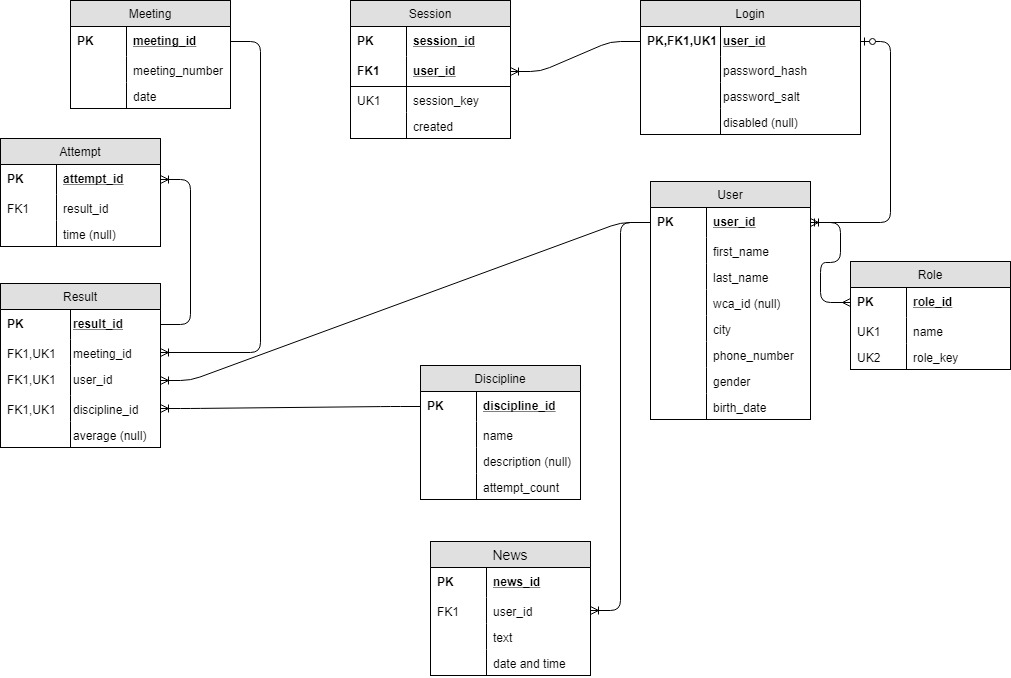
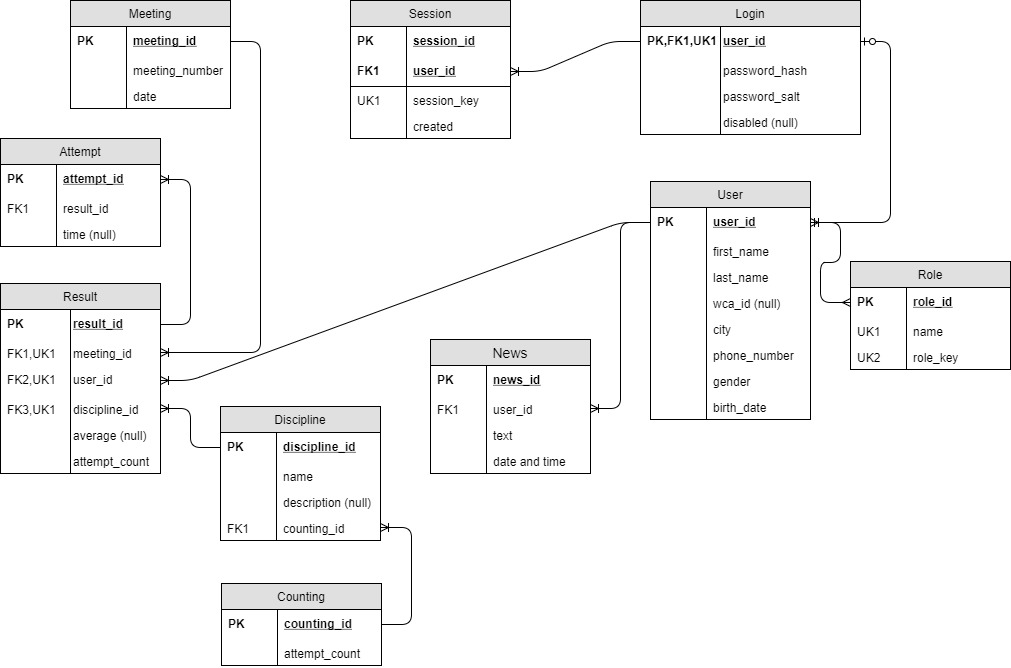
Add result (not completed)

diff --git a/Test/Backend/Managers/ResultsManager.cs b/Test/Backend/Managers/ResultsManager.cs
@@ -1,0 +1,57 @@
+using System.Collections.Generic;
+using System.Linq;
+using Backend;
+using Backend.Data.Entities;
+using Backend.Domain;
+using Microsoft.Extensions.DependencyInjection;
+using Xunit;
+
+namespace TestProject.Managers
+{
+    public class ResultsManager
+    {
+        private readonly DisciplinesManager _disciplinesManager;
+        private readonly MeetingsManager _meetingsManager;
+        private readonly Backend.Domain.ResultsManager _resultsManager;
+        private readonly UsersManager _usersManager;
+        
+        public ResultsManager()
+        {
+            var services = new ServiceCollection();
+            Startup.ConfigDataServices(services);
+
+            var serviceProvider = services.BuildServiceProvider();
+
+            _disciplinesManager = serviceProvider.GetService<DisciplinesManager>();
+            _meetingsManager = serviceProvider.GetService<MeetingsManager>();
+            _resultsManager = serviceProvider.GetService<Backend.Domain.ResultsManager>();
+            _usersManager = serviceProvider.GetService<UsersManager>();
+        }
+        
+        [Fact]
+        public void AddResult()
+        {
+            var meeting1 = _meetingsManager.GetMeeting(1);
+            Assert.NotNull(meeting1);
+
+            var discipline = _disciplinesManager.GetDisciplinesAsync().Single(d => d.Name == "3x3");
+
+            var maxim = _usersManager.GetUsers().Single(u => u.FirstName == "Максим" && u.LastName == "Жемеренко");
+
+            var result = new Result
+            {
+                Attempts = Attempts(5, 7, 10, 11, 13),
+                Discipline = discipline,
+                Meeting = meeting1,
+                User = maxim
+            };
+
+            _resultsManager.AddResult(result);
+        }
+
+        private IEnumerable<decimal?> Attempts(params decimal?[] attempts)
+        {
+            return attempts.ToArray();
+        }
+    }
+}

diff --git a/Backend/Data/Repositories/UserRepository.cs b/Backend/Data/Repositories/UserRepository.cs
@@ -1,4 +1,5 @@
 using System;
+using System.Collections.Generic;
 using Backend.Data.Database;
 using Backend.Data.Entities;
 using MySql.Data.MySqlClient;
@@ -11,12 +12,28 @@ namespace Backend.Data.Repositories
         public UserRepository(DatabaseContext databaseContext) : base(databaseContext)
         {
         }
+        
+        public IEnumerable<User> GetUsers()
+        {
+            using (var command = new MySqlCommand("select * from user", Connection, Transaction))
+            using (var reader = command.ExecuteReader())
+            {
+                var users = new List<User>();
 
+                while (reader.Read())
+                {
+                    users.Add(GetUser(reader));
+                }
+
+                return users;
+            }
+        }
+        
         public static User GetUser(MySqlDataReader reader)
         {
             return new User
             {
-                Id = reader.GetInt32("result_id"),
+                Id = reader.GetInt32("user_id"),
                 FirstName = reader.GetString("first_name"),
                 LastName = reader.GetString("last_name"),
                 City = !reader.IsDBNull(reader.GetOrdinal("city")) ? reader.GetString("city") : null,

diff --git a/Backend/Startup.cs b/Backend/Startup.cs
@@ -38,15 +38,22 @@ namespace Backend
                 c.SwaggerDoc("v1", new Info {Title = "KhSM API", Version = "v1"});
             });
 
+            ConfigDataServices(services);
+        }
+
+        public static void ConfigDataServices(IServiceCollection services)
+        {
             services.AddScoped<DatabaseContext>();
             
             services.AddScoped<MeetingsRepository>();
             services.AddScoped<DisciplinesRepository>();
             services.AddScoped<ResultsRepository>();
+            services.AddTransient<UserRepository>();
 
             services.AddScoped<MeetingsManager>();
             services.AddScoped<DisciplinesManager>();
             services.AddScoped<ResultsManager>();
+            services.AddScoped<UsersManager>();
         }
 
         // This method gets called by the runtime. Use this method to configure the HTTP request pipeline.

diff --git a/Backend/Domain/UsersManager.cs b/Backend/Domain/UsersManager.cs
@@ -1,0 +1,22 @@
+using System.Collections.Generic;
+using Backend.Data.Entities;
+using Backend.Data.Repositories;
+
+namespace Backend.Domain
+{
+    // ReSharper disable once ClassNeverInstantiated.Global
+    public class UsersManager
+    {
+        private readonly UserRepository _userRepository;
+
+        public UsersManager(UserRepository userRepository)
+        {
+            _userRepository = userRepository;
+        }
+
+        public IEnumerable<User> GetUsers()
+        {
+            return _userRepository.GetUsers();
+        }
+    }
+}

diff --git a/Backend/Data/Repositories/DisiplinesRepository.cs b/Backend/Data/Repositories/DisiplinesRepository.cs
@@ -27,8 +27,7 @@ namespace Backend.Data.Repositories
             {
                 Id = reader.GetInt32("discipline_id"),
                 Name = reader.GetString("name"),
-                Description = reader.GetString("description"),
-                AttemptsCount = reader.GetInt32("attempt_count")
+                Description = reader.GetString("description")
             };
         }
         

diff --git a/Backend/Data/Entities/Discipline.cs b/Backend/Data/Entities/Discipline.cs
@@ -9,8 +9,6 @@ namespace Backend.Data.Entities
         [Required]
         public string Name { get; set; }
         public string Description { get; set; }
-        [Required]
-        public int AttemptsCount { get; set; }
 
         protected bool Equals(Discipline other)
         {

diff --git a/Backend/Domain/ResultsManager.cs b/Backend/Domain/ResultsManager.cs
@@ -36,5 +36,10 @@ namespace Backend.Domain
                     };
                 });
         }
+
+        public void AddResult(Result result)
+        {
+            throw new System.NotImplementedException();
+        }
     }
 }

diff --git a/Documents/Rest Api documentation.md b/Documents/Rest Api documentation.md
@@ -44,6 +44,13 @@ GET users/{id}/results
 
 Response: Array<[DisciplineResults](#disciplineresults)>
 
+## Insert user result
+POST users/{id}/results
+
+Request: [Result](#result)
+
+Response: [Result](#result)
+
 ## Get meetings
 GET meetings
 
